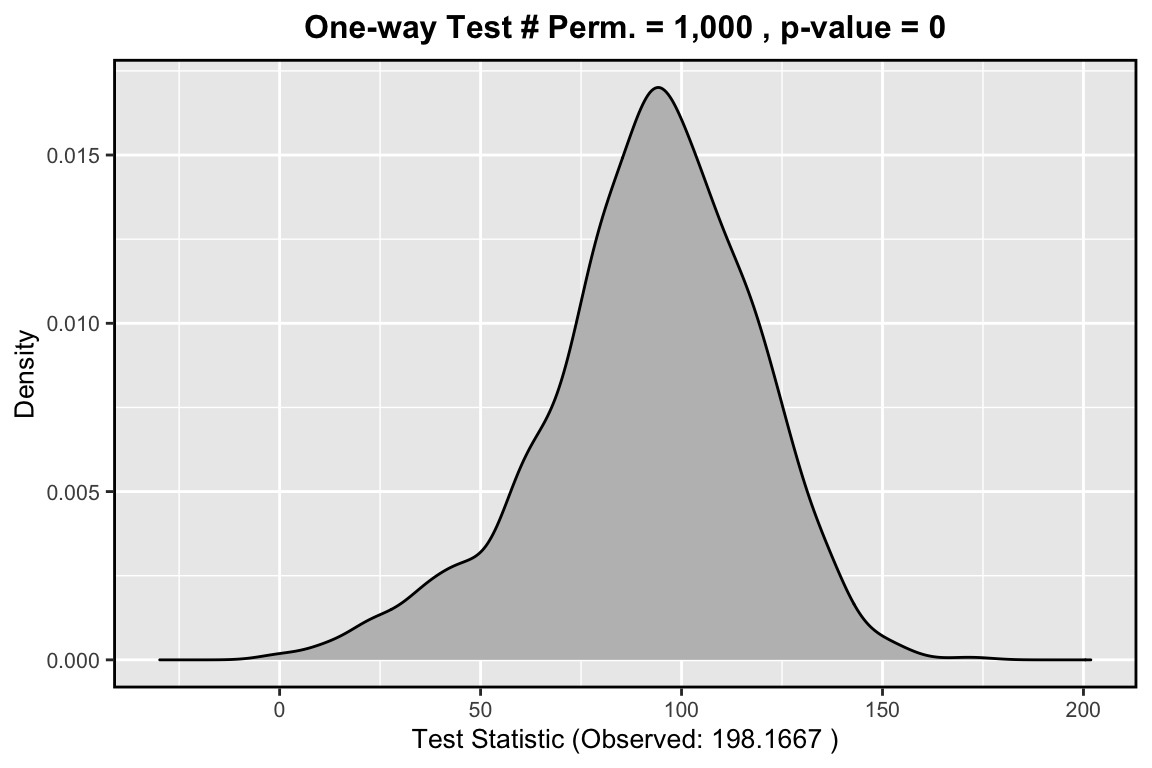
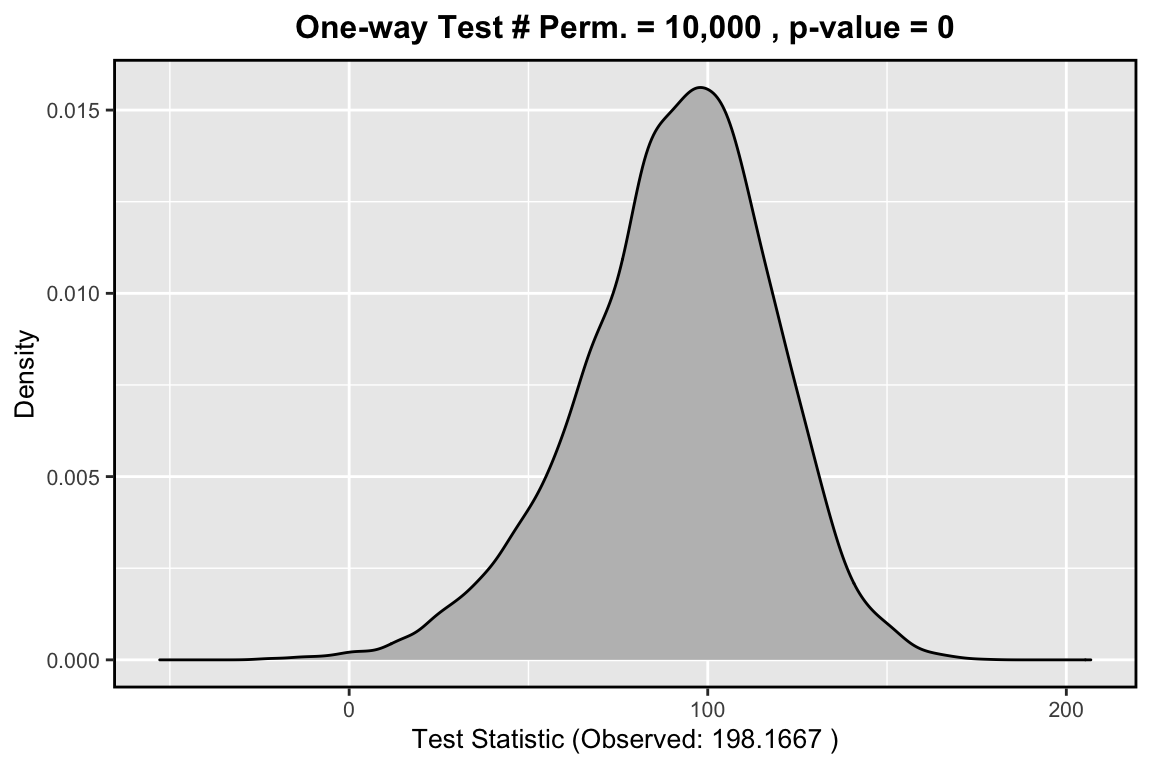
finish book

diff --git a/docs/index.html b/docs/index.html
@@ -4,26 +4,25 @@
 
   <meta charset="utf-8" />
   <meta http-equiv="X-UA-Compatible" content="IE=edge" />
-  <title>Chapter 1 Is there gender gap in Chess? | bookdownproj.knit</title>
-  <meta name="description" content="" />
+  <title>Gender Gap in Chess</title>
+  <meta name="description" content="Gender Gap in Chess" />
   <meta name="generator" content="bookdown 0.30 and GitBook 2.6.7" />
 
-  <meta property="og:title" content="Chapter 1 Is there gender gap in Chess? | bookdownproj.knit" />
+  <meta property="og:title" content="Gender Gap in Chess" />
   <meta property="og:type" content="book" />
   
   
   
 
   <meta name="twitter:card" content="summary" />
-  <meta name="twitter:title" content="Chapter 1 Is there gender gap in Chess? | bookdownproj.knit" />
+  <meta name="twitter:title" content="Gender Gap in Chess" />
   
   
   
 
-<meta name="author" content="Vishu Tyagi" />
+<meta name="author" content="Vishu Tyagi (vt2353@columbia.edu)" />
 
 
-<meta name="date" content="2023-01-20" />
 
   <meta name="viewport" content="width=device-width, initial-scale=1" />
   <meta name="apple-mobile-web-app-capable" content="yes" />
@@ -191,7 +190,7 @@ code span.wa { color: #60a0b0; font-weight: bold; font-style: italic; } /* Warni
       <div class="body-inner">
         <div class="book-header" role="navigation">
           <h1>
-            <i class="fa fa-circle-o-notch fa-spin"></i><a href="./"></a>
+            <i class="fa fa-circle-o-notch fa-spin"></i><a href="./">Gender Gap in Chess</a>
           </h1>
         </div>
 
@@ -199,10 +198,13 @@ code span.wa { color: #60a0b0; font-weight: bold; font-style: italic; } /* Warni
           <div class="page-inner">
 
             <section class="normal" id="section-">
-<!--bookdown:title:end-->
-<!--bookdown:title:start-->
+<div id="header">
+<h1 class="title">Gender Gap in Chess</h1>
+<p class="author"><em>Vishu Tyagi (<a href="mailto:vt2353@columbia.edu" class="email">vt2353@columbia.edu</a>)</em></p>
+</div>
 <div id="is-there-gender-gap-in-chess" class="section level1 hasAnchor" number="1">
 <h1><span class="header-section-number">Chapter 1</span> Is there gender gap in Chess?<a href="#is-there-gender-gap-in-chess" class="anchor-section" aria-label="Anchor link to header"></a></h1>
+<p>This work is inspired by the Chessbase article, <a href="https://en.chessbase.com/post/what-gender-gap-in-chess">What gender gap in chess?</a> by Prof. Ma at New York University who talked about the gender gap at top-level chess. I’ve tried adding a bit of statistical rigour; apologies in advance if I tread otherwise; thoughts and suggestions are always welcomed and much appreciated!</p>
 <div id="fide-ratings" class="section level2 hasAnchor" number="1.1">
 <h2><span class="header-section-number">1.1</span> FIDE Ratings<a href="#fide-ratings" class="anchor-section" aria-label="Anchor link to header"></a></h2>
 <p>I downloaded the <a href="http://ratings.fide.com/download/standard_dec22frl_xml.zip">Dec 2022, FIDE Standard rating list</a> in XML format and parsed it as CSV in Python and removed all junior players born after 2002. See here for the <a href="https://github.com/vishu-tyagi/Chess-Gender-Gap">github repository</a>. This is how it looks like,</p>
@@ -235,10 +237,10 @@ code span.wa { color: #60a0b0; font-weight: bold; font-style: italic; } /* Warni
 </ul>
 <div id="test-statistic" class="section level3 hasAnchor" number="1.2.1">
 <h3><span class="header-section-number">1.2.1</span> Test Statistic<a href="#test-statistic" class="anchor-section" aria-label="Anchor link to header"></a></h3>
-<p>Under the Null Hypothesis, all ratings are independent and identically distributed. If we sample (without replacement) as many ratings as there are female players, the sampled ratings are equally likely to be the ratings of female players.</p>
+<p>Under the Null Hypothesis, all ratings are independent and identically distributed. If we randomly choose (without replacement) as many ratings as there are female players, the chosen ratings are equally likely to be the ratings of female players.</p>
 <p>Because the alternative hypothesis is that ratings from distribution F tend to be smaller than ratings from distribution M, a reasonable test would be to</p>
 <ul>
-<li>reject the null hypothesis if the sum of sampled ratings is smaller than might be expected by chance</li>
+<li>reject the null hypothesis if the sum of actual ratings of female players is smaller than the sum of randomly chosen ratings</li>
 </ul>
 <p>Hence, we choose <span class="math inline">\(\sum\limits_i F_i\)</span> as our test statistic where <span class="math inline">\(F_i\)</span> are ratings of female players</p>
 </div>
@@ -320,7 +322,7 @@ code span.wa { color: #60a0b0; font-weight: bold; font-style: italic; } /* Warni
 <div id="repeating-permutation-step" class="section level3 hasAnchor" number="1.3.3">
 <h3><span class="header-section-number">1.3.3</span> Repeating Permutation Step<a href="#repeating-permutation-step" class="anchor-section" aria-label="Anchor link to header"></a></h3>
 <div class="sourceCode" id="cb11"><pre class="sourceCode r"><code class="sourceCode r"><span id="cb11-1"><a href="#cb11-1" aria-hidden="true" tabindex="-1"></a><span class="co"># Repeat steps a &#39;large number of times&#39; (p)</span></span>
-<span id="cb11-2"><a href="#cb11-2" aria-hidden="true" tabindex="-1"></a>p <span class="ot">=</span> <span class="dv">1000</span> <span class="co"># Number of permutations</span></span>
+<span id="cb11-2"><a href="#cb11-2" aria-hidden="true" tabindex="-1"></a>p <span class="ot">=</span> <span class="dv">10000</span> <span class="co"># Number of permutations</span></span>
 <span id="cb11-3"><a href="#cb11-3" aria-hidden="true" tabindex="-1"></a>perm_res <span class="ot">=</span> <span class="fu">rep</span>(<span class="dv">0</span>, p)  <span class="co"># Vector for saving permutation results</span></span>
 <span id="cb11-4"><a href="#cb11-4" aria-hidden="true" tabindex="-1"></a><span class="cf">for</span> (i <span class="cf">in</span> <span class="dv">1</span><span class="sc">:</span>p) {</span>
 <span id="cb11-5"><a href="#cb11-5" aria-hidden="true" tabindex="-1"></a>  F_ratings <span class="ot">=</span> <span class="fu">sample</span>(T_ratings, <span class="at">size=</span>F_count, <span class="at">replace=</span><span class="cn">FALSE</span>)  <span class="co"># Sample female ratings</span></span>
@@ -332,7 +334,7 @@ code span.wa { color: #60a0b0; font-weight: bold; font-style: italic; } /* Warni
 <h3><span class="header-section-number">1.3.4</span> p-value<a href="#p-value-1" class="anchor-section" aria-label="Anchor link to header"></a></h3>
 <div class="sourceCode" id="cb12"><pre class="sourceCode r"><code class="sourceCode r"><span id="cb12-1"><a href="#cb12-1" aria-hidden="true" tabindex="-1"></a><span class="co"># One way hypothesis test (Null: M = F, Alternative: M &gt; F)</span></span>
 <span id="cb12-2"><a href="#cb12-2" aria-hidden="true" tabindex="-1"></a>extreme_count <span class="ot">=</span> <span class="fu">sum</span>(perm_res <span class="sc">&lt;=</span> t_observed)</span></code></pre></div>
-<pre><code>## Number of permutations           : 1,000 
+<pre><code>## Number of permutations           : 10,000 
 ## One-way: Extreme count           : 0 
 ## One-way: Extreme ratio (p-value) : 0</code></pre>
 <p><img src="bookdownproj_files/figure-html/unnamed-chunk-14-1.png" width="576" style="display: block; margin: auto;" /></p>
@@ -357,14 +359,14 @@ code span.wa { color: #60a0b0; font-weight: bold; font-style: italic; } /* Warni
 </div>
 <div id="p-value-2" class="section level3 hasAnchor" number="1.4.2">
 <h3><span class="header-section-number">1.4.2</span> p-value<a href="#p-value-2" class="anchor-section" aria-label="Anchor link to header"></a></h3>
-<pre><code>## Number of permutations           : 1,000 
-## One-way: Extreme count           : 116 
-## One-way: Extreme ratio (p-value) : 0.116</code></pre>
+<pre><code>## Number of permutations           : 10,000 
+## One-way: Extreme count           : 1289 
+## One-way: Extreme ratio (p-value) : 0.1289</code></pre>
 <p><img src="bookdownproj_files/figure-html/unnamed-chunk-25-1.png" width="576" style="display: block; margin: auto;" /></p>
 </div>
 <div id="decision-2" class="section level3 hasAnchor" number="1.4.3">
 <h3><span class="header-section-number">1.4.3</span> Decision<a href="#decision-2" class="anchor-section" aria-label="Anchor link to header"></a></h3>
-<p>We conclude lack of evidence to support the claim that in India, male players tend to have a larger rating than female players. This makes me proud as an avid follower of the chess scene in India.</p>
+<p>We conclude lack of evidence to support the claim that in India, male players tend to have a larger rating than female players.</p>
 </div>
 </div>
 <div id="comparing-top-players" class="section level2 hasAnchor" number="1.5">
@@ -380,7 +382,7 @@ code span.wa { color: #60a0b0; font-weight: bold; font-style: italic; } /* Warni
 </ul>
 <div id="hypothesis-1" class="section level3 hasAnchor" number="1.5.1">
 <h3><span class="header-section-number">1.5.1</span> Hypothesis<a href="#hypothesis-1" class="anchor-section" aria-label="Anchor link to header"></a></h3>
-<p>Instead of comparing the highest rated players, we will take into account the 10 highest rated players. So, our test statistic becomes <span class="math inline">\(M-F\)</span> with <span class="math inline">\(M = \frac{1}{10}\sum\limits_{i=1}^{10} M_{(i)}\)</span> and <span class="math inline">\(F = \frac{1}{10}\sum\limits_{i=1}^{10} F_{(i)}\)</span> where <span class="math inline">\(M_{(i)}\)</span> and <span class="math inline">\(F_{(i)}\)</span> are ordered statistics. The hypothesis is then,</p>
+<p>Instead of comparing only the highest rated players, we will take into account the 10 highest rated players, which is more robust against outliers. So, our test statistic becomes <span class="math inline">\(M-F\)</span> with <span class="math inline">\(M = \frac{1}{10}\sum\limits_{i=1}^{10} M_{(i)}\)</span> and <span class="math inline">\(F = \frac{1}{10}\sum\limits_{i=1}^{10} F_{(i)}\)</span> where <span class="math inline">\(M_{(i)}\)</span> and <span class="math inline">\(F_{(i)}\)</span> are ordered statistics. The hypothesis is then,</p>
 <ul>
 <li><strong>Null Hypothesis:</strong> Observed difference is due to random chance (M - F = 0)</li>
 <li><strong>Alternative Hypothesis:</strong> Observed difference is real (M - F &gt; 0) and the top rated male players are significantly higher rated than the top rated female players</li>
@@ -412,13 +414,13 @@ code span.wa { color: #60a0b0; font-weight: bold; font-style: italic; } /* Warni
 <div class="sourceCode" id="cb24"><pre class="sourceCode r"><code class="sourceCode r"><span id="cb24-1"><a href="#cb24-1" aria-hidden="true" tabindex="-1"></a>M <span class="ot">=</span> <span class="fu">mean</span>(<span class="fu">tail</span>(<span class="fu">sort</span>(M_ratings), <span class="at">size=</span><span class="dv">10</span>))   <span class="co"># Mean rating of male players</span></span>
 <span id="cb24-2"><a href="#cb24-2" aria-hidden="true" tabindex="-1"></a>F <span class="ot">=</span> <span class="fu">mean</span>(<span class="fu">tail</span>(<span class="fu">sort</span>(F_ratings), <span class="at">size=</span><span class="dv">10</span>))   <span class="co"># Mean rating of female players players</span></span>
 <span id="cb24-3"><a href="#cb24-3" aria-hidden="true" tabindex="-1"></a>t <span class="ot">=</span> M <span class="sc">-</span> F    <span class="co"># Observed test statistic</span></span></code></pre></div>
-<pre><code>## (1) Resampled test statistic         : 85.66667 
+<pre><code>## (1) Resampled test statistic         : 123 
 ## (2) Observed test statistic          : 198.1667</code></pre>
 </div>
 <div id="repeating-permutation-step-1" class="section level3 hasAnchor" number="1.5.4">
 <h3><span class="header-section-number">1.5.4</span> Repeating Permutation Step<a href="#repeating-permutation-step-1" class="anchor-section" aria-label="Anchor link to header"></a></h3>
 <div class="sourceCode" id="cb26"><pre class="sourceCode r"><code class="sourceCode r"><span id="cb26-1"><a href="#cb26-1" aria-hidden="true" tabindex="-1"></a><span class="co"># Repeat steps a &#39;large number of times&#39; (p)</span></span>
-<span id="cb26-2"><a href="#cb26-2" aria-hidden="true" tabindex="-1"></a>p <span class="ot">=</span> <span class="dv">1000</span> <span class="co"># Number of permutations</span></span>
+<span id="cb26-2"><a href="#cb26-2" aria-hidden="true" tabindex="-1"></a>p <span class="ot">=</span> <span class="dv">10000</span> <span class="co"># Number of permutations</span></span>
 <span id="cb26-3"><a href="#cb26-3" aria-hidden="true" tabindex="-1"></a>perm_res <span class="ot">=</span> <span class="fu">rep</span>(<span class="dv">0</span>, p)  <span class="co"># Vector for saving permutation results</span></span>
 <span id="cb26-4"><a href="#cb26-4" aria-hidden="true" tabindex="-1"></a><span class="cf">for</span> (i <span class="cf">in</span> <span class="dv">1</span><span class="sc">:</span>p) {</span>
 <span id="cb26-5"><a href="#cb26-5" aria-hidden="true" tabindex="-1"></a>  T_ratings <span class="ot">=</span> <span class="fu">sample</span>(T_ratings) <span class="co"># Shuffle all ratings</span></span>
@@ -434,7 +436,7 @@ code span.wa { color: #60a0b0; font-weight: bold; font-style: italic; } /* Warni
 <h3><span class="header-section-number">1.5.5</span> p-value<a href="#p-value-3" class="anchor-section" aria-label="Anchor link to header"></a></h3>
 <div class="sourceCode" id="cb27"><pre class="sourceCode r"><code class="sourceCode r"><span id="cb27-1"><a href="#cb27-1" aria-hidden="true" tabindex="-1"></a><span class="co"># One way hypothesis test (Null: M - F = 0, Alternative: M - F &gt; 0)</span></span>
 <span id="cb27-2"><a href="#cb27-2" aria-hidden="true" tabindex="-1"></a>extreme_count <span class="ot">=</span> <span class="fu">sum</span>(perm_res <span class="sc">&gt;=</span> t_observed)</span></code></pre></div>
-<pre><code>## Number of permutations           : 1,000 
+<pre><code>## Number of permutations           : 10,000 
 ## One-way: Extreme count           : 0 
 ## One-way: Extreme ratio (p-value) : 0</code></pre>
 <p><img src="bookdownproj_files/figure-html/unnamed-chunk-39-1.png" width="576" style="display: block; margin: auto;" /></p>
@@ -446,8 +448,8 @@ code span.wa { color: #60a0b0; font-weight: bold; font-style: italic; } /* Warni
 </div>
 <div id="case-of-india-top-players" class="section level2 hasAnchor" number="1.6">
 <h2><span class="header-section-number">1.6</span> Case of India: Top Players<a href="#case-of-india-top-players" class="anchor-section" aria-label="Anchor link to header"></a></h2>
-<pre><code>## Highest rated male player: Anand, Viswanathan rated 2754 
-## Highest rated female player: Koneru, Humpy rated 2572 
+<pre><code>## Highest rated Indian male player: Anand, Viswanathan rated 2754 
+## Highest rated Indian female player: Koneru, Humpy rated 2572 
 ## Difference (M-F): 182</code></pre>
 <div id="observation-3" class="section level3 hasAnchor" number="1.6.1">
 <h3><span class="header-section-number">1.6.1</span> Observation<a href="#observation-3" class="anchor-section" aria-label="Anchor link to header"></a></h3>
@@ -460,18 +462,22 @@ code span.wa { color: #60a0b0; font-weight: bold; font-style: italic; } /* Warni
 </div>
 <div id="p-value-4" class="section level3 hasAnchor" number="1.6.2">
 <h3><span class="header-section-number">1.6.2</span> p-value<a href="#p-value-4" class="anchor-section" aria-label="Anchor link to header"></a></h3>
-<pre><code>## Number of permutations           : 1,000 
-## One-way: Extreme count           : 128 
-## One-way: Extreme ratio (p-value) : 0.128</code></pre>
+<pre><code>## Number of permutations           : 10,000 
+## One-way: Extreme count           : 1351 
+## One-way: Extreme ratio (p-value) : 0.1351</code></pre>
 <p><img src="bookdownproj_files/figure-html/unnamed-chunk-50-1.png" width="576" style="display: block; margin: auto;" /></p>
 </div>
 <div id="decision-4" class="section level3 hasAnchor" number="1.6.3">
 <h3><span class="header-section-number">1.6.3</span> Decision<a href="#decision-4" class="anchor-section" aria-label="Anchor link to header"></a></h3>
-<p>We conclude a lack of evidence to support the claim that in India, the top rated male players are outperforming the top rated female players.</p>
+<p>We conclude a lack of evidence to support the claim that in India, the top rated male players are significantly higher rated than the top rated female players.</p>
 </div>
 </div>
 <div id="conclusion" class="section level2 hasAnchor" number="1.7">
 <h2><span class="header-section-number">1.7</span> Conclusion<a href="#conclusion" class="anchor-section" aria-label="Anchor link to header"></a></h2>
+<p>We saw that in the case of India, the gender gap between the ratings of male and female players is not significant and can be attributed to the low participation of women in Chess.</p>
+<p>However, the same cannot be said for the global scene. We saw that the ratings of male players tend to be significantly higher than those of females.</p>
+<p>However, this does not mean men are inherently better at Chess than women. There are a lot of other factors, including systemic societal factors, that are at play here which are not taken into account in this procedure.</p>
+<p>All in all, as an Indian and an avid follower of Chess, it makes me incredibly proud that Indian women are performing so well!</p>
 
 </div>
 </div>

diff --git a/docs/404.html b/docs/404.html
@@ -4,26 +4,25 @@
 
   <meta charset="utf-8" />
   <meta http-equiv="X-UA-Compatible" content="IE=edge" />
-  <title>Page not found | bookdownproj.knit</title>
-  <meta name="description" content="" />
+  <title>Page not found | Gender Gap in Chess</title>
+  <meta name="description" content="Page not found | Gender Gap in Chess" />
   <meta name="generator" content="bookdown 0.30 and GitBook 2.6.7" />
 
-  <meta property="og:title" content="Page not found | bookdownproj.knit" />
+  <meta property="og:title" content="Page not found | Gender Gap in Chess" />
   <meta property="og:type" content="book" />
   
   
   
 
   <meta name="twitter:card" content="summary" />
-  <meta name="twitter:title" content="Page not found | bookdownproj.knit" />
+  <meta name="twitter:title" content="Page not found | Gender Gap in Chess" />
   
   
   
 
-<meta name="author" content="Vishu Tyagi" />
+<meta name="author" content="Vishu Tyagi (vt2353@columbia.edu)" />
 
 
-<meta name="date" content="2023-01-20" />
 
   <meta name="viewport" content="width=device-width, initial-scale=1" />
   <meta name="apple-mobile-web-app-capable" content="yes" />
@@ -191,7 +190,7 @@ code span.wa { color: #60a0b0; font-weight: bold; font-style: italic; } /* Warni
       <div class="body-inner">
         <div class="book-header" role="navigation">
           <h1>
-            <i class="fa fa-circle-o-notch fa-spin"></i><a href="./"></a>
+            <i class="fa fa-circle-o-notch fa-spin"></i><a href="./">Gender Gap in Chess</a>
           </h1>
         </div>
 
